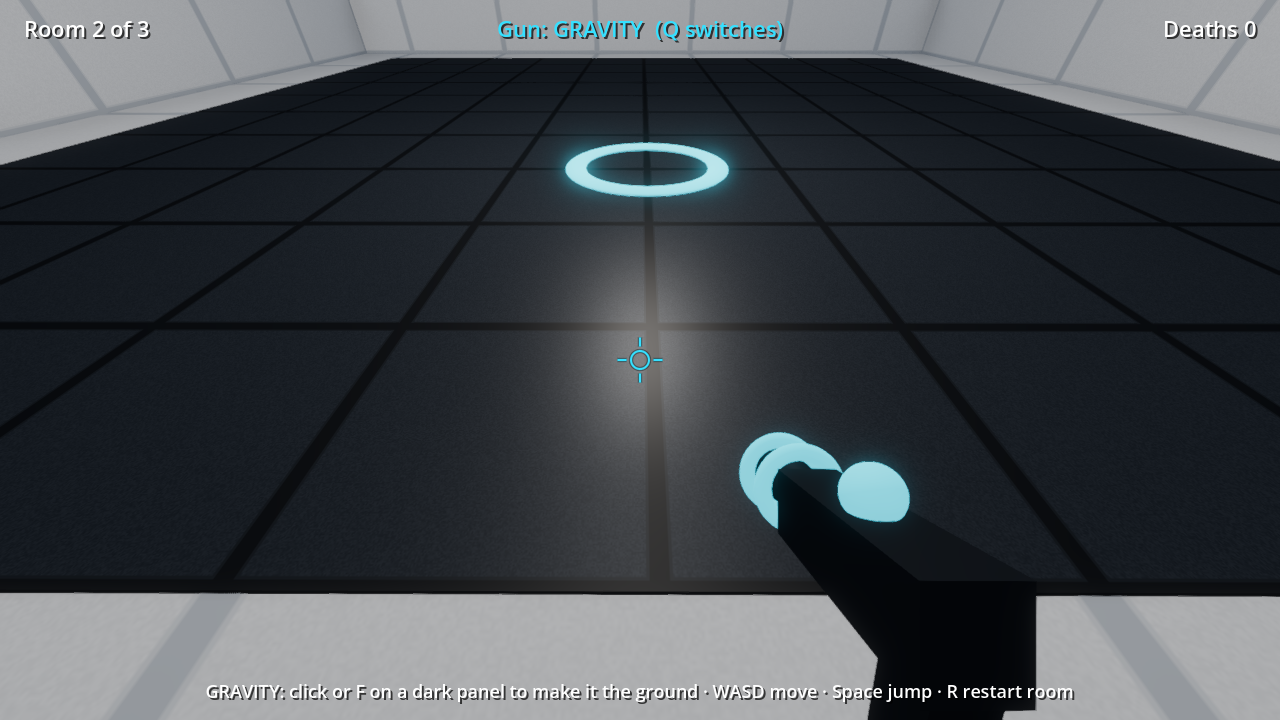
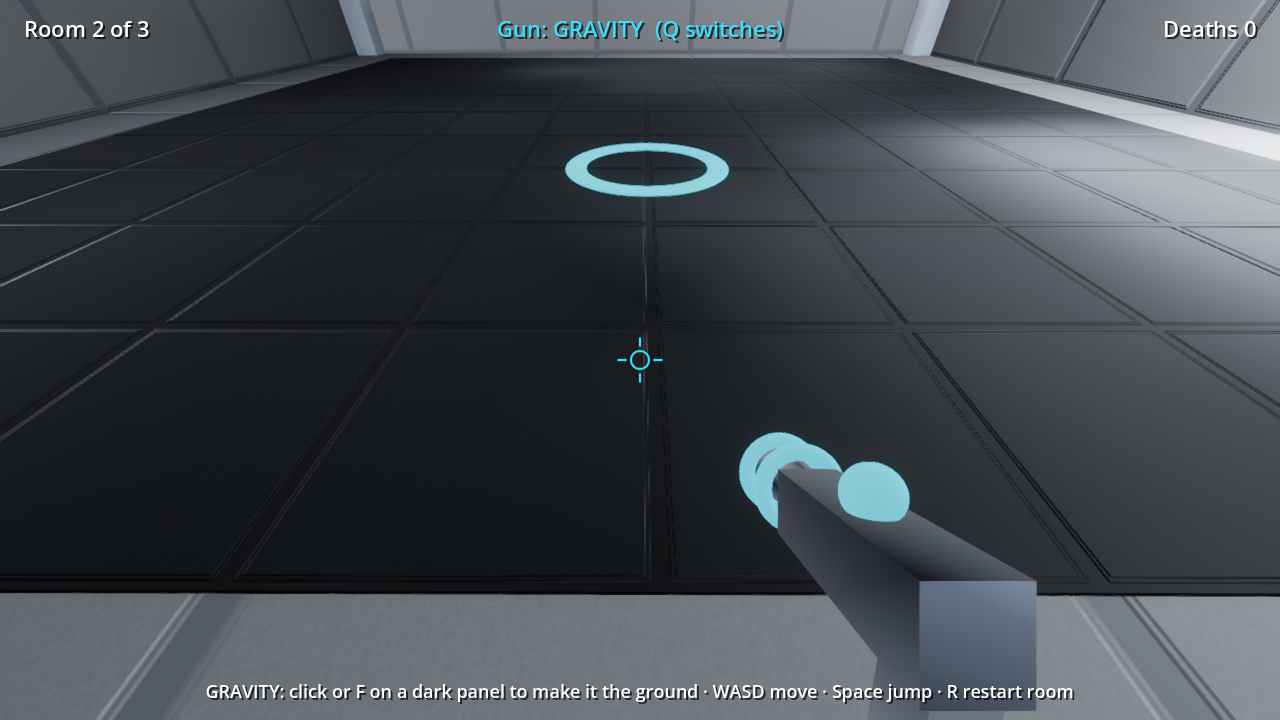
feat: test-lab look and sound, a heavier gravity gun, detailed rooms
Look
- SDFGI bounce light, cool white lamps; matte darker grip panels, clearer glass
- Shared seam normal map on every panel; darker floor tiles (floors found
  as slabs topped at a room's floor)
- Auto-placed light fixtures on the nearest non-grip surface; lights moved
  to shine from them
- Door frames and corner pillars as an optional trims list in the level

Gravity gun
- Driven sub-bass shot with charge, crack and rumble; spatial impact whump
- Heavy recoil, camera kick, thick fading beam, popping impact ring

Sound
- Per-room reverb (space per room in the level file)
- Heel/toe footsteps with floor-panel ring; layered landings
- Ambient pad, brighter light hum, pneumatic door hiss, distant facility
  sounds (distant_gap_min/max)

QA: playthrough resumes after focus loss, snaps the gravity shot;
evidence refreshed; tests for floors, trims and new sounds.

Design: design/game-brief.md

diff --git a/design/game-brief.md b/design/game-brief.md
@@ -46,7 +46,7 @@
 
 ## Data schemas
 - `assets/data/game_tuning.json`: `{ "<key>": { "value": number, "why": "rationale and units" } }`. Every key is read by `Tuning.num()`.
-- `assets/data/level_rooms.json`: boxes are `[x0, x1, y0, y1, z0, z1]` metres with an optional 7th value (turn about z, radians). `panels` entries are `{ "box": [...], "center"?: [x, y, z] }`. `rooms` entries are `{ "name", "start": [x, y, z], "from_z" }` (you enter a room once `z > from_z`). Also `end_glow`, `door`, `plate_zone`, `plate_pad`, `plate_mark`, `cube_start`, `win_z`, `lights`, `title_camera`.
+- `assets/data/level_rooms.json`: boxes are `[x0, x1, y0, y1, z0, z1]` metres with an optional 7th value (turn about z, radians). Optional `trims` is a list of boxes of solid trim (door frames, pillars), and optional `plate_up` ([x, y, z], default up) is the way the plate faces; floors are recognised as thin slabs whose top is a room's floor. `panels` entries are `{ "box": [...], "center"?: [x, y, z] }`. `rooms` entries are `{ "name", "start": [x, y, z], "from_z" }` (you enter a room once `z > from_z`). Also `end_glow`, `door`, `plate_zone`, `plate_pad`, `plate_mark`, `cube_start`, `win_z`, `lights`, `title_camera`.
 
 ---
 **Kill condition:** If the shaft can't be climbed without dying at 9.81 m/s², raise `lethal_speed`, not gravity.
